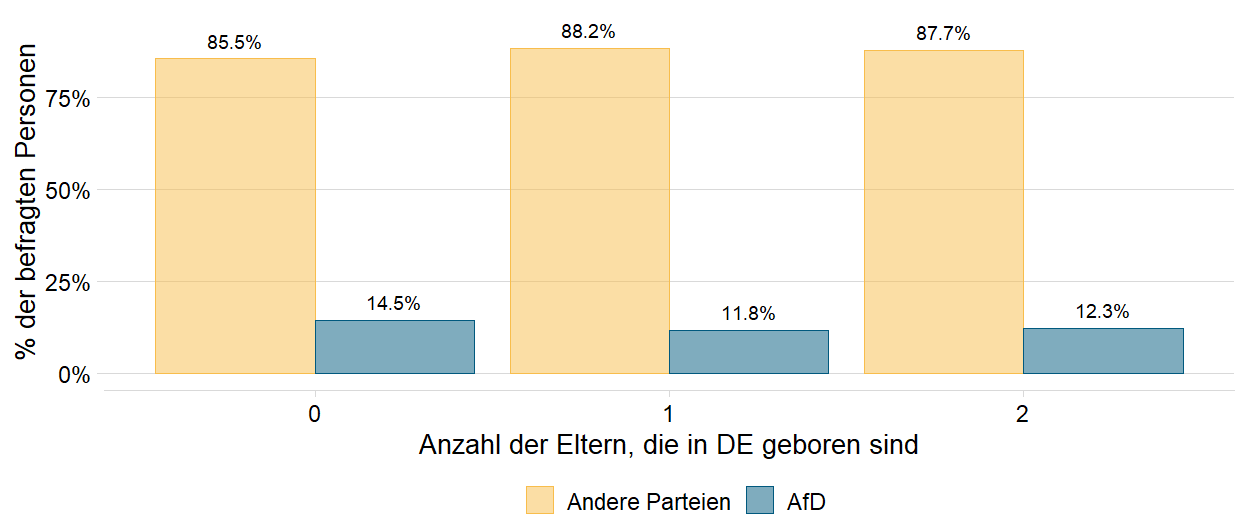
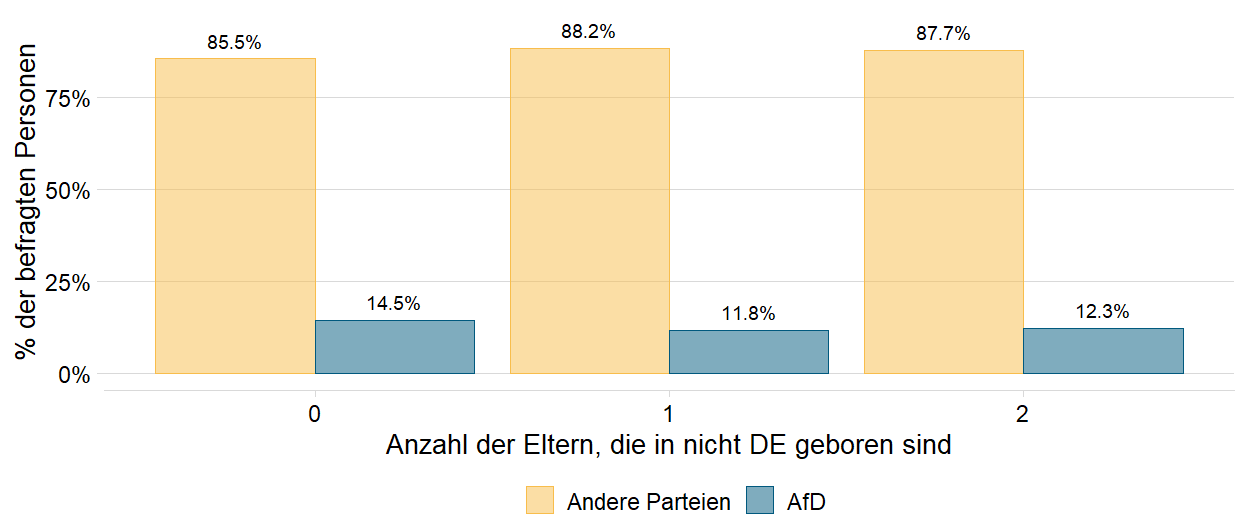
Eltern-Plot und inline code

Changed region(s): [[0.3125, 0.8182, 0.7812, 0.8788]]

diff --git a/README.md b/README.md
@@ -1,11 +1,12 @@
 Mythen und Fakten - Die AfD Wählerschaft unter der Lupe
 ================
 Manuel Neumann
-11 March, 2020
+12 March, 2020
 
 # Einführung
 
-In diesem Dokument präsentiere ich die Ergebnisse
+In diesem Dokument präsentiere ich die Grafiken meiner Präsentation beim
+Jahreskongress des Mannheimer Bündnisses gegen Rechts am 14. März 2020.
 
 # Die Datenquellen
 
@@ -36,45 +37,34 @@ In diesem Dokument präsentiere ich die Ergebnisse
 
 # Links-rechts
 
-![](plots/MgR-links-rechts-1.png)<!-- -->
-
-    ## N = 7243
+![](plots/MgR-links-rechts-1.png)<!-- --> N = 7243
 
 ![](plots/MgR-links-rechts-immi-1.png)<!-- -->
 
-    ## N = 6976
+N = 6976
 
 ![](plots/MgR-links-rechts-gender-1.png)<!-- -->![](plots/MgR-links-rechts-gender-1.gif)<!-- -->
-
-    ## N = 7243
+N = 7243
 
 # Sozio-ökonomische Zusammenhänge
 
-![](plots/MgR-gender_plot-1.png)<!-- -->
+![](plots/MgR-gender_plot-1.png)<!-- --> N = 6455
 
-    ## N =  6455
-
-![](plots/MgR-age_plot-1.png)<!-- -->
-
-    ## N =  6455
+![](plots/MgR-age_plot-1.png)<!-- --> N = 6455
 
 ![](plots/MgR-ageplot2-1.png)<!-- -->
 
-![](plots/MgR-ageplot3-1.png)<!-- -->
-
-    ## N =  6455
+![](plots/MgR-ageplot3-1.png)<!-- --> N = 6455
 
 # Ost-West
 
-![](plots/MgR-ostwest_plot-1.png)<!-- -->
-
-    ## N =  6455
+![](plots/MgR-ostwest_plot-1.png)<!-- --> N = 6455
 
 ![](plots/MgR-ostwest_plot1-1.png)<!-- -->
 
 # Einstellungen
 
-![](plots/MgR-outgroup_plot1-1.png)<!-- -->
+![](plots/MgR-outgroup_plot1-1.png)<!-- --> N = 8374
 
 ![](plots/MgR-outgroup_plot2a-1.png)<!-- -->
 
@@ -83,13 +73,18 @@ In diesem Dokument präsentiere ich die Ergebnisse
 ![](plots/MgR-outgroup_plot2c-1.png)<!-- -->
 ![](plots/MgR-outgroup_plot2d-1.png)<!-- -->
 
+N = 5952
+
 ![](plots/MgR-outgroup_plot_extreme1-1.png)<!-- -->
-![](plots/MgR-outgroup_plot_extreme2-1.png)<!-- -->
+
+N = 779
+
+![](plots/MgR-outgroup_plot_extreme2-1.png)<!-- --> N = 5692
 
 # Migrationsgeschichte
 
 ![](plots/MgR-migration-1.png)<!-- -->
 
-![](plots/MgR-migration1-1.png)<!-- -->
+![](plots/MgR-migration1-1.png)<!-- --> N = 6172
 
-![](plots/MgR-migration2-1.png)<!-- -->
+![](plots/MgR-eltern-plot-1.png)<!-- -->
